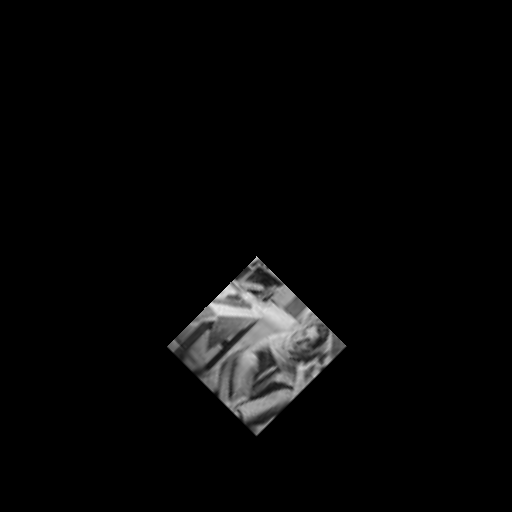
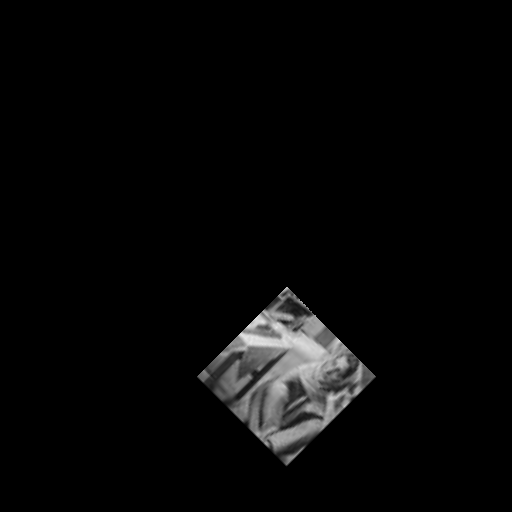
Submitted

Changed region(s): [[0.3125, 0.5, 0.75, 0.9062]]

diff --git a/1/Q4.py b/1/Q4.py
@@ -36,20 +36,20 @@ N2 = 8*N1
 # creating the output matrix
 output_matrix = np.ones((M2,N2))*-1
 
-# transformation_matrix = np.array([[1.414,-1.414,0],[1.414,1.414,0],[30,30,1]])
+transformation_matrix = np.array([[1.414,-1.414,0],[1.414,1.414,0],[30,30,1]])
 # transformation_matrix = np.array([[0.707,-0.707,0],[0.707,0.707,0],[0,0,1]])
-# transformation_matrix = np.array([[1,0,0],[0,1,0],[30,50,1]])
+# transformation_matrix = np.array([[1,2,3],[4,5,6],[7,8,9]])
 # transformation_matrix = np.array([[0.52,-0.52,0],[0.52,0.52,0],[0,0,1]])
 
 # input the transformation matrix
-s1 = input("Enter the first row: ")
-s2 = input("Enter the second row: ")
-s3 = input("Enter the third row: ")
+# s1 = input("Enter the first row: ")
+# s2 = input("Enter the second row: ")
+# s3 = input("Enter the third row: ")
 
-transformation_matrix = np.array([np.array(list(map(float, s1.split()))), 
-								  np.array(list(map(float, s2.split()))),
-	                              np.array(list(map(float, s3.split())))
-	                             ])
+# transformation_matrix = np.array([np.array(list(map(float, s1.split()))), 
+# 								  np.array(list(map(float, s2.split()))),
+# 	                              np.array(list(map(float, s3.split())))
+# 	                             ])
 
 # inverse of the transformaton matrix
 inverse = np.linalg.pinv(transformation_matrix)

diff --git a/1/Q5.py b/1/Q5.py
@@ -6,12 +6,45 @@ import numpy as np
 # V is the reference image and X is the input
 
 # first trial
-V = np.array([[44,20,1],[42,8,1],[12,4,1]])
-X = np.array([[121,-1,1],[102,-18,1],[55,19,1]])
+# V = np.array([[44,20,1],[42,8,1],[12,4,1]])
+# X = np.array([[121,-1,1],[102,-18,1],[55,19,1]])
 
 # second trial
 # V = np.array([[2,5,1],[7,2,1],[8,29,1]])
 # X = np.array([[41,33,1],[43,24,1],[83,60,1]])
+
+# third trial
+# V = np.array([[41,21,1],[13,5,1],[8,29,1]])
+# X = np.array([[120,0,1],[55,20,1],[82,60,1]])
+
+
+img = Image.open('assign1.jpg')
+x1 = np.asarray(img)
+	
+# x1 = np.random.rand(103, 53)
+	
+plt.title('matplotlib.pyplot.ginput() function\
+Example', fontweight ="bold")
+
+print("After 3 clicks :")
+plt.imshow(x1)
+x = plt.ginput(3)
+
+V = np.array([[x[0][1],x[0,0],1],[x[1][1],x[1][0],1],[x[2,1],x[2][0],1]])
+
+img = Image.open('Q4_output.png')
+x1 = np.asarray(img)
+	
+# x1 = np.random.rand(103, 53)
+	
+plt.title('matplotlib.pyplot.ginput() function\
+Example', fontweight ="bold")
+
+print("After 3 clicks :")
+plt.imshow(x1)
+x = plt.ginput(3)
+
+X = np.array([[x[0][1],x[0,0],1],[x[1][1],x[1][0],1],[x[2,1],x[2][0],1]])
 
 Z = np.dot(np.linalg.pinv(V),X)
 print(Z)

diff --git a/1/KesarShrivastava_2019051_code.py b/1/KesarShrivastava_2019051_code.py
@@ -243,12 +243,16 @@ print()
 # V is the reference image and X is the input
 
 # first trial
-V = np.array([[44,20,1],[42,8,1],[12,4,1]])
-X = np.array([[121,-1,1],[102,-18,1],[55,19,1]])
+# V = np.array([[44,20,1],[42,8,1],[12,4,1]])
+# X = np.array([[121,-1,1],[102,-18,1],[55,19,1]])
 
 # second trial
 # V = np.array([[2,5,1],[7,2,1],[8,29,1]])
 # X = np.array([[41,33,1],[43,24,1],[83,60,1]])
+
+# third trial
+V = np.array([[41,21,1],[13,5,1],[8,29,1]])
+X = np.array([[120,0,1],[55,20,1],[82,60,1]])
 
 Z = np.dot(np.linalg.pinv(V),X)
 
